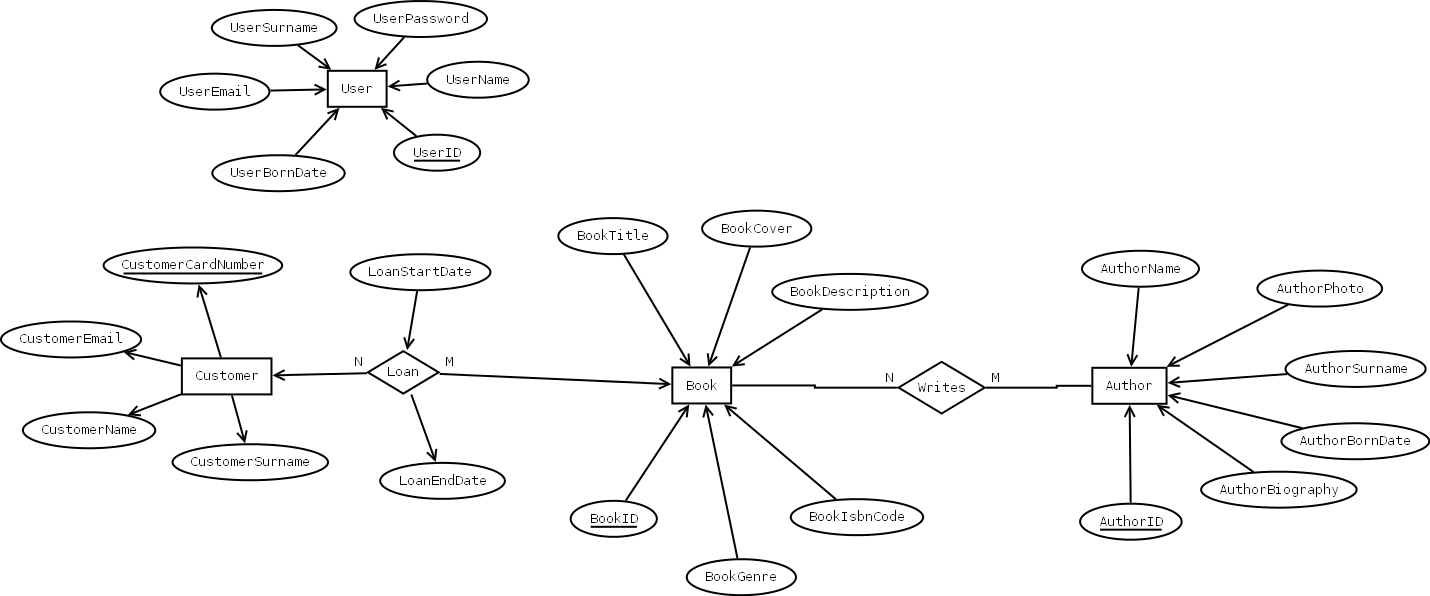
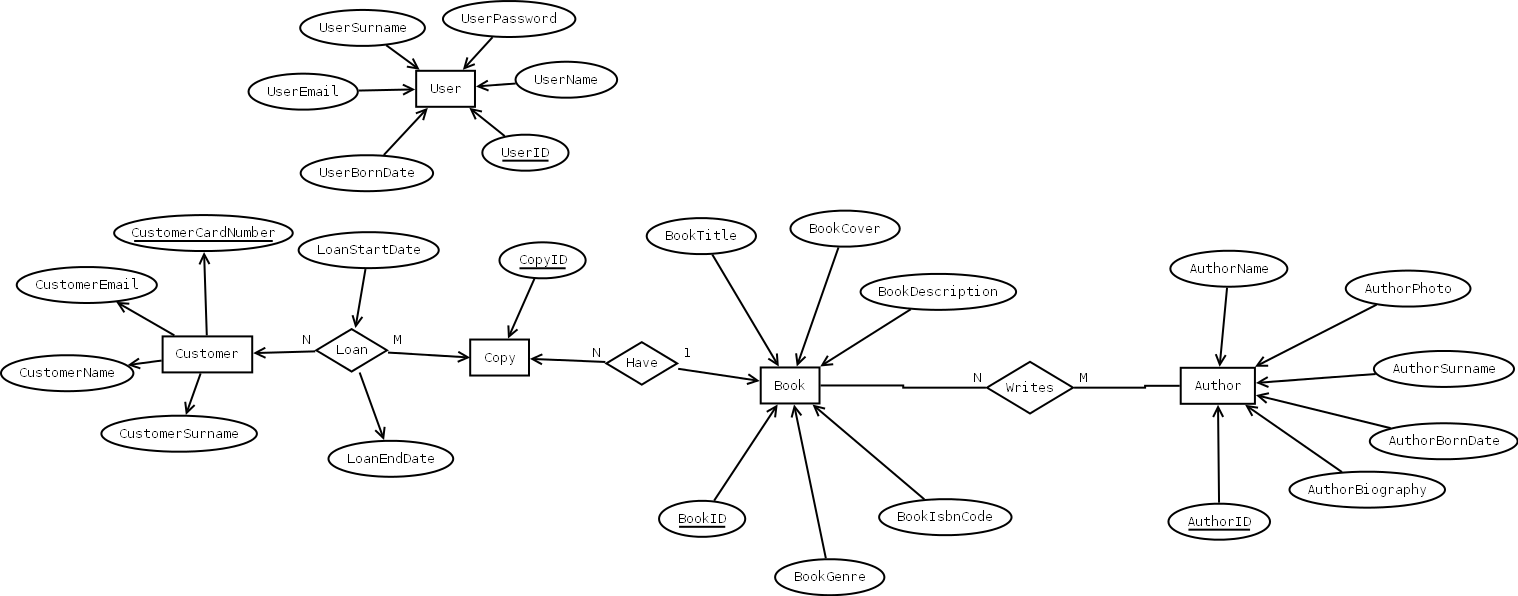
Add Copy entity.
Closed #55.

diff --git a/src/com/github/jcpp/jathenaeum/db/dao/CopyDAO.java b/src/com/github/jcpp/jathenaeum/db/dao/CopyDAO.java
@@ -1,0 +1,70 @@
+/**
+ * 
+ */
+package com.github.jcpp.jathenaeum.db.dao;
+
+import java.sql.Connection;
+import java.sql.PreparedStatement;
+import java.sql.ResultSet;
+import java.sql.SQLException;
+import java.util.ArrayList;
+
+import com.github.jcpp.jathenaeum.Copy;
+import com.github.jcpp.jathenaeum.db.Database;
+
+/**
+ * DAO of Copy.
+ * @author <a href="https://github.com/DavidePastore">DavidePastore</a>
+ *
+ */
+public class CopyDAO {
+	
+	private static Database db = Database.getInstance();
+	
+	
+	/**
+	 * Get all Copy instances.
+	 * @return Returns all Copy instances in an ArrayList<Copy>.
+	 */
+	public static ArrayList<Copy> getAll(){
+		Connection con = db.getConnection();
+		ArrayList<Copy> copies = new ArrayList<Copy>();
+		PreparedStatement stmt = null;
+		try {
+			con.setAutoCommit(false);
+			final String select = "SELECT * FROM Copy";
+			stmt = con.prepareStatement(select);
+			ResultSet resultSet = stmt.executeQuery();
+			Copy copy;
+			
+			while(resultSet.next()){
+				copy = new Copy();
+				copy.setId(resultSet.getInt(1));
+				copy.setBookId(resultSet.getInt(2));
+				
+				copies.add(copy);
+			}
+			
+			con.commit();
+		} catch (SQLException sqle) {
+			sqle.printStackTrace();
+			try {
+				con.rollback();
+			} catch (SQLException e) {
+				e.printStackTrace();
+			}
+		} finally {
+			try {
+				if (stmt!=null) {
+					stmt.close();
+					stmt=null;
+				}
+				db.closeConnection(con);
+			} catch (SQLException e) {
+				e.printStackTrace();
+			}
+		}
+		return copies;
+	}
+
+}

diff --git a/src/com/github/jcpp/jathenaeum/Copy.java b/src/com/github/jcpp/jathenaeum/Copy.java
@@ -1,0 +1,42 @@
+/**
+ * 
+ */
+package com.github.jcpp.jathenaeum;
+
+/**
+ * @author <a href="https://github.com/DavidePastore">DavidePastore</a>
+ *
+ */
+public class Copy {
+	
+	private int id;
+	private int bookId;
+	
+	/**
+	 * @return the id
+	 */
+	public int getId() {
+		return id;
+	}
+	/**
+	 * @param id the id to set
+	 */
+	public void setId(int id) {
+		this.id = id;
+	}
+	/**
+	 * @return the bookId
+	 */
+	public int getBookId() {
+		return bookId;
+	}
+	/**
+	 * @param bookId the bookId to set
+	 */
+	public void setBookId(int bookId) {
+		this.bookId = bookId;
+	}
+	
+	
+
+}
